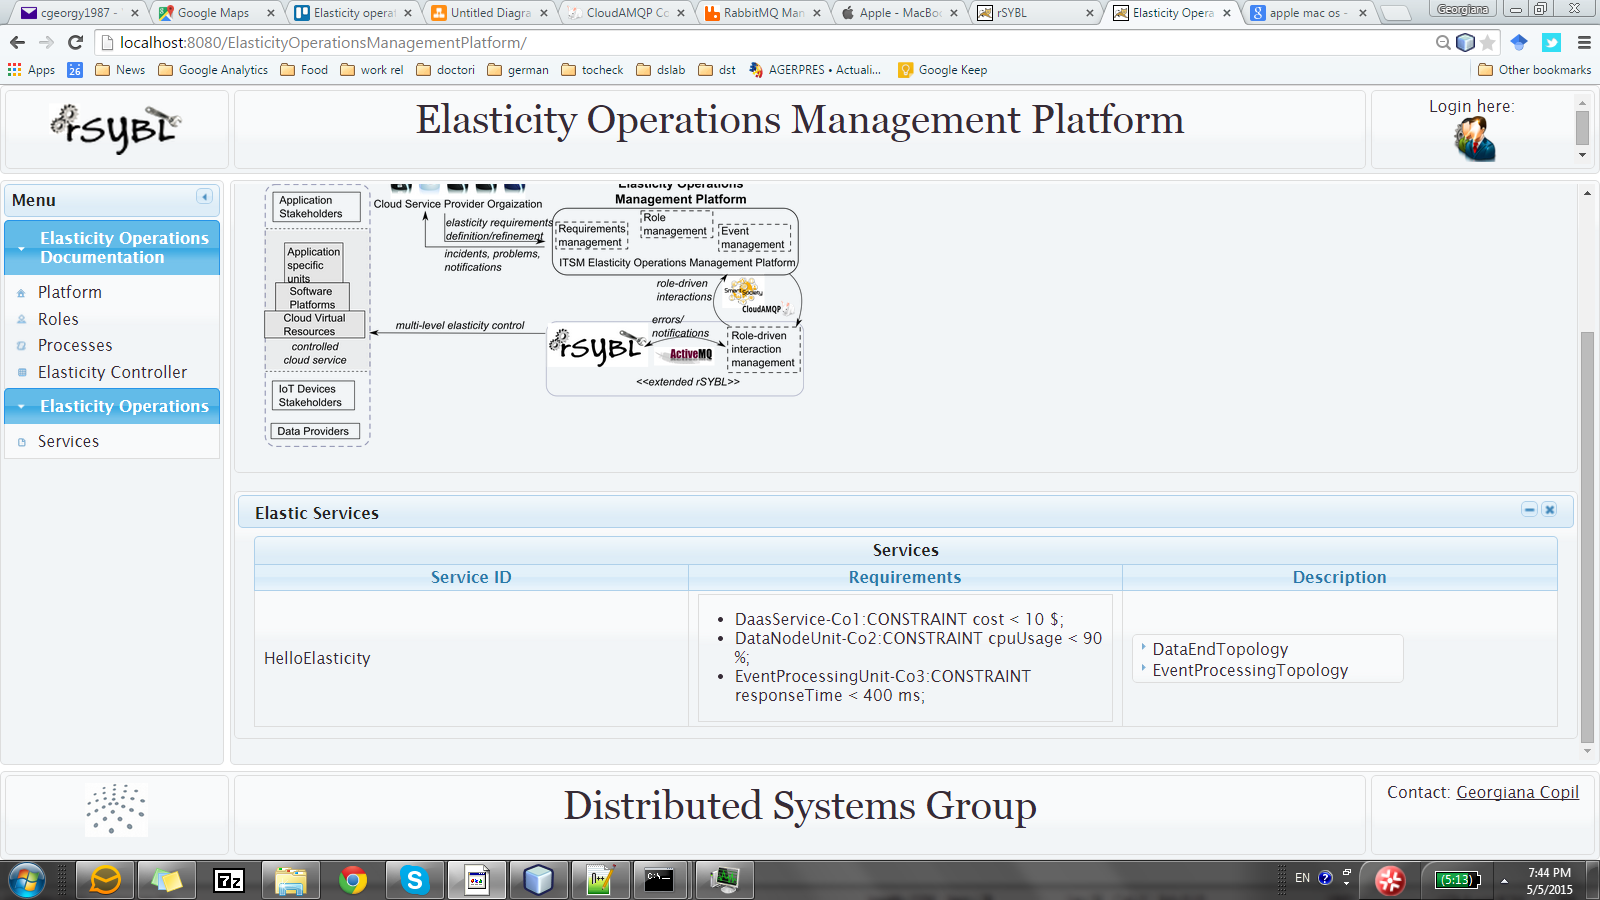
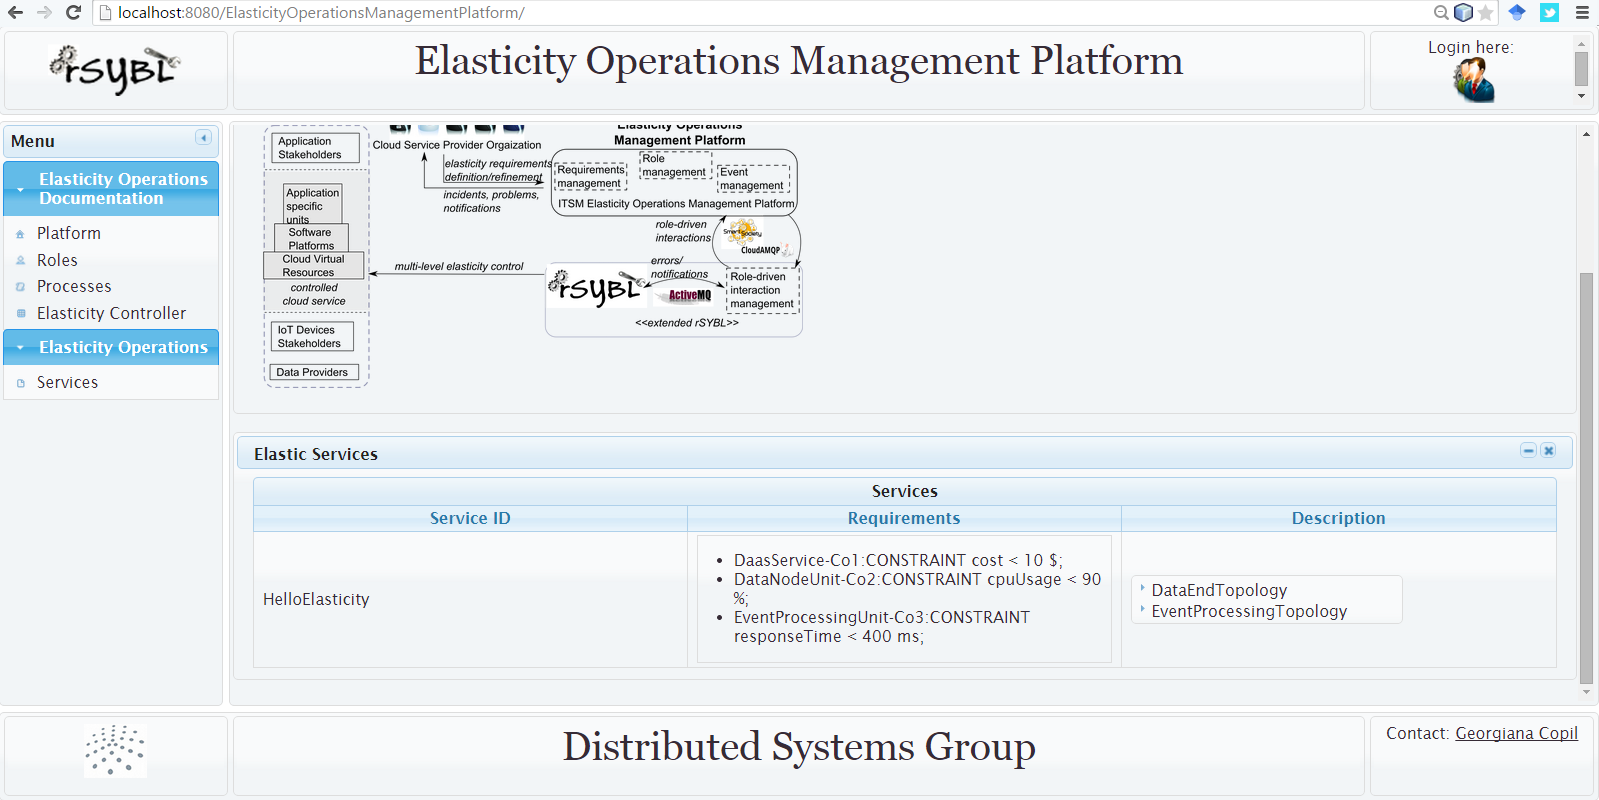
modified initial dialog

diff --git a/eOMP.html b/eOMP.html
@@ -14,13 +14,13 @@
   <title>eOMP</title>
   <meta name="description" content="Controlling cloud services at multiple levels of abstraction ">
 
-  <meta name="viewport" content="width=device-width,initial-scale=1">
+  <meta name="viewport" content="width=device-width,initial-scale=2">
 
 </head>
 
 <body>
 
-  <div class="wrapper">
+  <div   class="wrapper">
     <header>
       <h1 class="title">eOMP</h1>
     </header>
@@ -39,8 +39,19 @@
           <h3>
 <a id="welcome-to-github-pages" class="anchor" href="#welcome-to-github-pages" aria-hidden="true"><span class="octicon octicon-link"></span></a>Elasticity operations</h3>
 
+<h3>
+<a id="welcome-to-github-pages" class="anchor" href="#welcome-to-github-pages" aria-hidden="true"><span class="octicon octicon-link"></span></a>Initial view of service operations</h3>
 <center><figure>
-  <img src="./images/eOMP/currentRolesAndResponsibilities.png"/>
+  <img src="https://raw.githubusercontent.com/tuwiendsg/rSYBL/gh-pages/images/eOMP/screenshots/initialDialogNew.png"/>
+</figure></center>
+<h3>
+<a id="welcome-to-github-pages" class="anchor" href="#welcome-to-github-pages" aria-hidden="false"><span class="octicon octicon-link"></span></a>Roles and responsibilities shown in eOMP</h3>
+<center><figure>
+  <img src="https://raw.githubusercontent.com/tuwiendsg/rSYBL/gh-pages/images/eOMP/currentRolesAndResponsibilities.png"/>
+</figure></center>
+<h3><a id="welcome-to-github-pages" class="anchor" href="#welcome-to-github-pages" aria-hidden="false"><span class="octicon octicon-link"></span></a>Initiate interactions for changing requirements</h3>
+<center><figure>
+  <img src="https://raw.githubusercontent.com/tuwiendsg/rSYBL/gh-pages/images/eOMP/initiateInteractionForReplacingRequirements.png"/>
 </figure></center>
         </article>
       </div>
